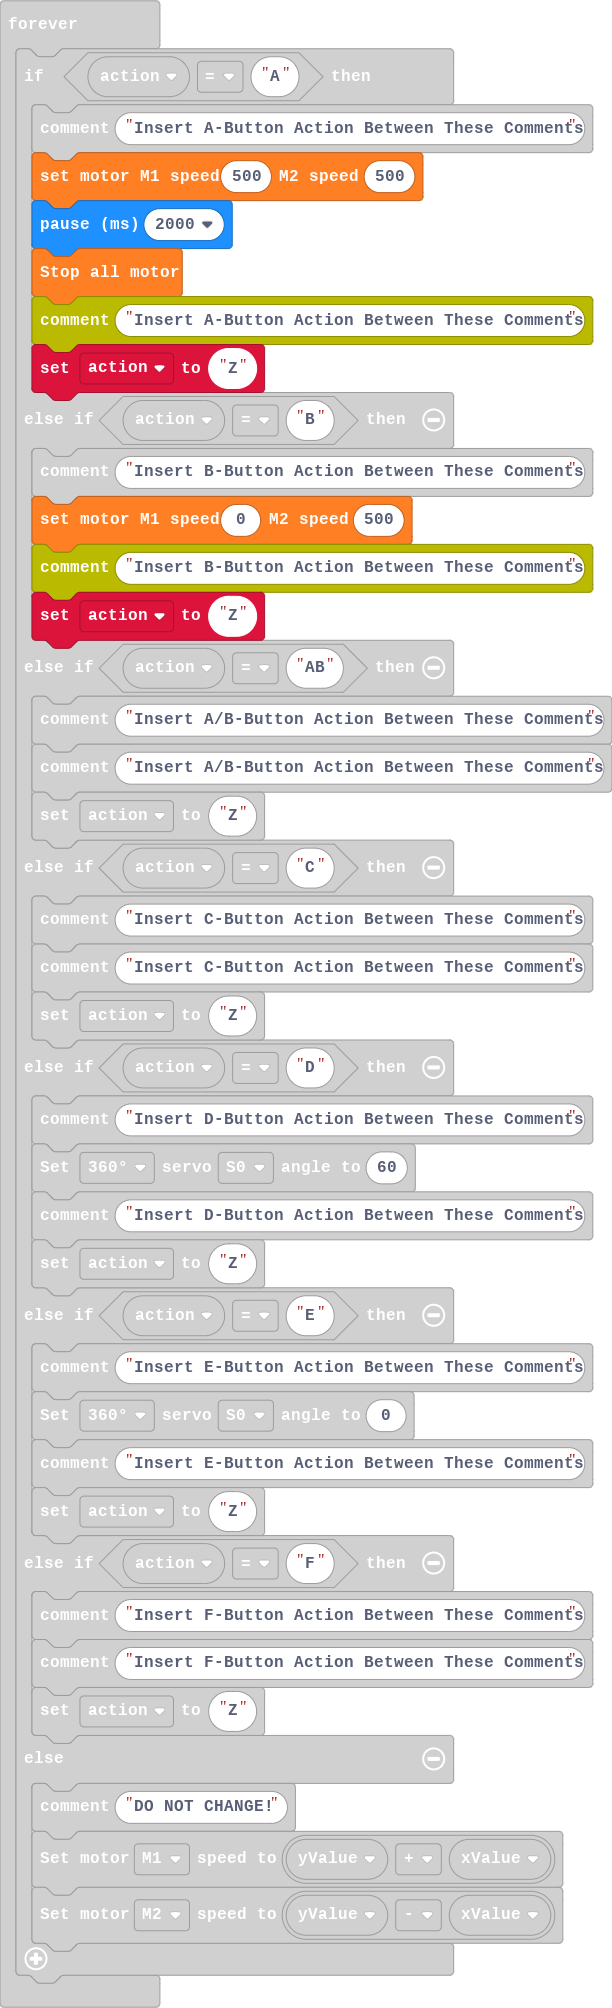
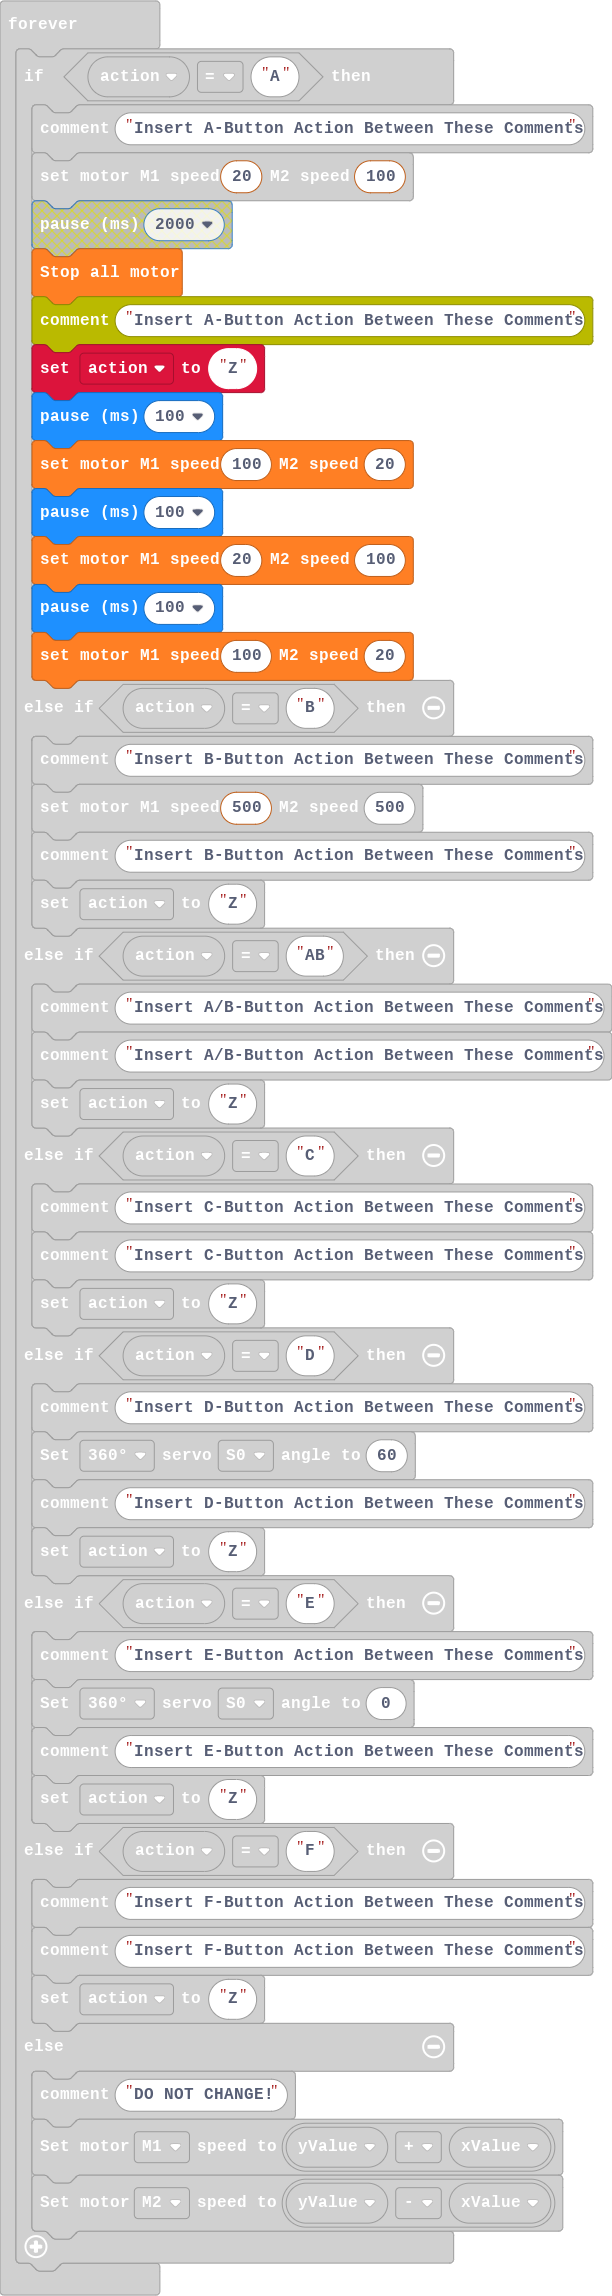
Update main.blocks, main.ts

diff --git a/main.ts b/main.ts
@@ -38,14 +38,19 @@ basic.showString("R")
 basic.forever(function () {
     if (action == "A") {
         comment.comment("Insert A-Button Action Between These Comments")
-        wuKong.setAllMotor(500, 500)
-        basic.pause(2000)
+        wuKong.setAllMotor(20, 100)
+        basic.pause(100)
+        wuKong.setAllMotor(100, 20)
+        basic.pause(100)
+        wuKong.setAllMotor(20, 100)
+        basic.pause(100)
+        wuKong.setAllMotor(100, 20)
         wuKong.stopAllMotor()
         comment.comment("Insert A-Button Action Between These Comments")
         action = "Z"
     } else if (action == "B") {
         comment.comment("Insert B-Button Action Between These Comments")
-        wuKong.setAllMotor(0, 500)
+        wuKong.setAllMotor(500, 500)
         comment.comment("Insert B-Button Action Between These Comments")
         action = "Z"
     } else if (action == "AB") {
